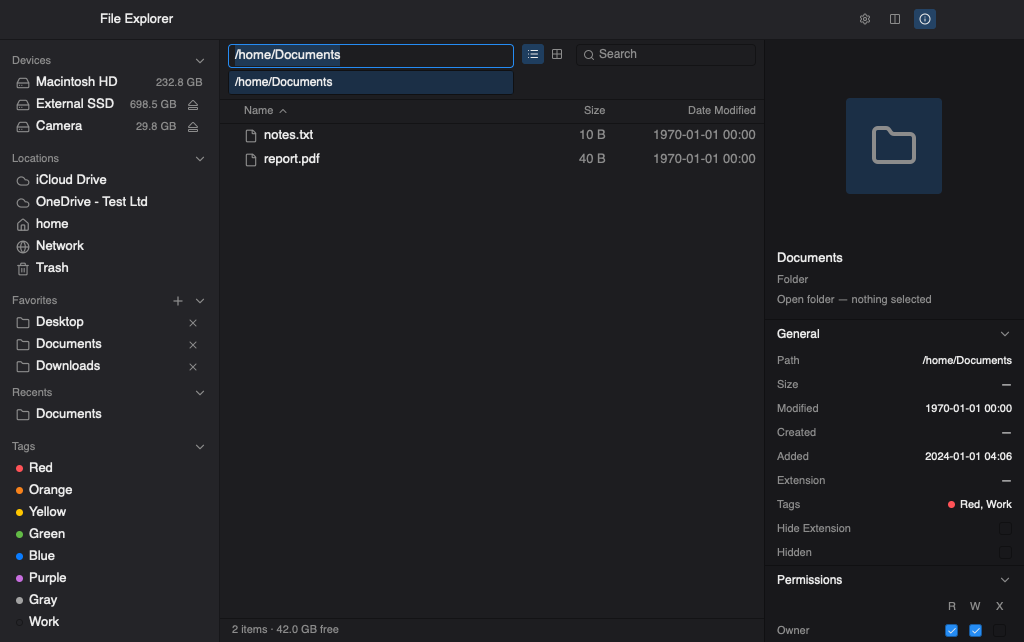
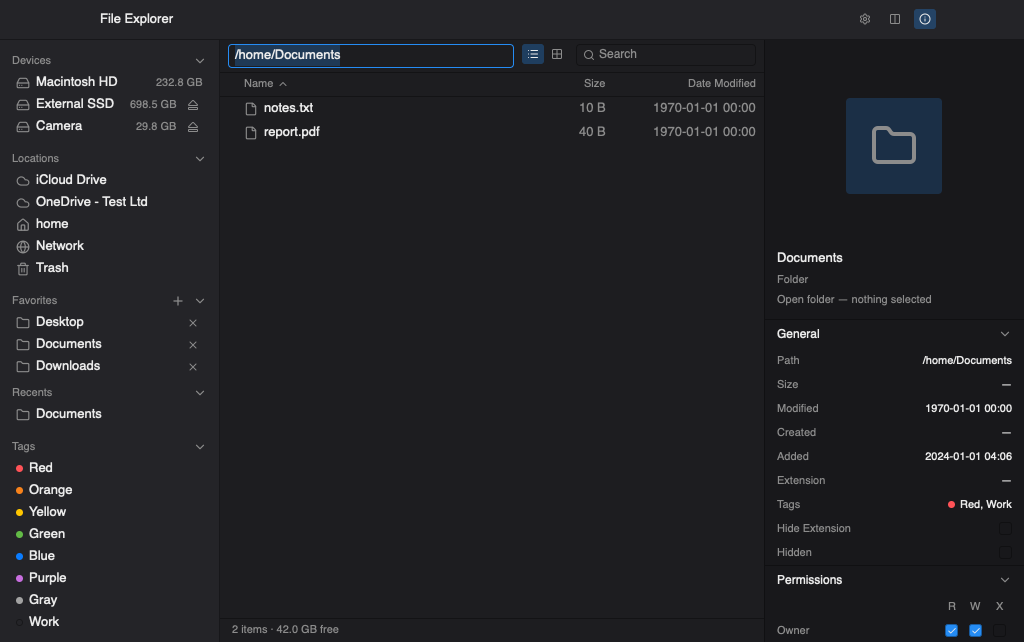
Fix: the address bar stayed open over a navigation that went nowhere (#24)
* Fix: the address bar stayed open over a navigation that went nowhere

Reported from use: "the file path does not close once it has been
opened and it does not update if a new folder is chosen".

`Pane::navigate_to` returns early when the committed path is the one
already open, and `Pane::load` — which it never reaches — was the only
thing that restored the breadcrumb. So `cmd-l` then Enter on the current
folder, or clicking the folder you are already in while the editor is
open, left the editable path showing. Because it keeps keyboard focus it
then swallowed every keystroke after it, which is what makes it look
like the bar "does not update": it is not stale, it is stuck.

The editor's lifetime now belongs to *a destination having been chosen*,
not to the listing actually changing. A new `close_address_bar` runs on
`navigate_to`'s early-return path, covering every caller (sidebar
clicks, double-clicks, back/forward), and the `AddressBarEvent::Navigated`
handler closes the editor before attempting the navigation, which is
where the contract really belongs.

+5 #[gpui::test]. Two of them drive the real
`AddressBar::confirm` → `Navigated` → pane path rather than calling
`navigate_to` directly, because that is where the lifetime is decided —
the first version of this fix passed a direct-call test while leaving
the real path broken.

Not verified by driving the running app: synthetic keyboard input does
not reach the window reliably here (`FE_LOG_KEYS=1` records no key
[…]

Changed region(s): [[0.2188, 0.0935, 0.5, 0.2804], [0.625, 0.1246, 0.75, 0.2492], [0.5625, 0.1246, 0.5938, 0.2492]]

diff --git a/crates/app/src/pane.rs b/crates/app/src/pane.rs
@@ -286,8 +286,16 @@ impl Pane {
             window,
             |this, _, event: &AddressBarEvent, window, cx| match event {
                 AddressBarEvent::Navigated(path) => {
+                    // Committing always closes the editor, *before* the
+                    // navigation is attempted. `load` restores the breadcrumb
+                    // too, but it never runs when the committed path is the
+                    // one already open — `navigate_to` returns early — and the
+                    // editor would then stay open over a navigation that did
+                    // nothing, swallowing every keystroke after it.
+                    this.address_bar = AddressBarMode::Breadcrumb;
                     this.navigate_to(path, cx);
                     window.focus(&this.focus_handle, cx);
+                    cx.notify();
                 }
                 AddressBarEvent::Cancelled => {
                     this.address_bar = AddressBarMode::Breadcrumb;
@@ -373,6 +381,13 @@ impl Pane {
     /// forward stack.
     pub fn navigate_to(&mut self, path: &Path, cx: &mut Context<Self>) {
         if self.path.as_deref() == Some(path) {
+            // Going nowhere still ends any path edit. `load` is what normally
+            // restores the breadcrumb, and it does not run here — so without
+            // this, choosing the folder you are already in (committing the
+            // current path, or clicking it in the sidebar) left the editor
+            // open over a navigation that did nothing, swallowing every
+            // keystroke after it.
+            self.close_address_bar(cx);
             return;
         }
         let departed = self.current_nav_entry(cx);
@@ -485,6 +500,18 @@ impl Pane {
         jobs.update(cx, |jobs, cx| {
             jobs.push_notice(COLUMNS_UNAVAILABLE_NOTICE.to_string(), cx);
         });
+    }
+
+    /// Put the breadcrumb back, if the editable path is showing.
+    ///
+    /// Idempotent, and deliberately separate from [`Pane::load`]: the editor's
+    /// lifetime is tied to *a destination having been chosen*, not to the
+    /// listing actually changing.
+    fn close_address_bar(&mut self, cx: &mut Context<Self>) {
+        if self.address_bar == AddressBarMode::Editing {
+            self.address_bar = AddressBarMode::Breadcrumb;
+            cx.notify();
+        }
     }
 
     /// Swap the breadcrumb for the editable path input (`cmd-l`, forwarded by
@@ -1164,6 +1191,25 @@ impl Render for Pane {
             // The details view (header + uniform_list rows).
             self.dir_view.clone().into_any_element()
         };
+        // §3 "breadcrumb that becomes an editable text path": the editor is a
+        // *transient* mode, so pressing anywhere in the listing ends it.
+        //
+        // Capture phase, and a press rather than a click: a row's own handler
+        // consumes the event, and the gesture that matters (marquee, drag)
+        // may never produce a click at all. Focus events cannot serve here —
+        // the field lives inside the pane's own subtree, so moving between
+        // them never re-enters it.
+        //
+        // Without this the editor lingers over a folder it no longer
+        // describes, and keeps swallowing keystrokes.
+        let body = div()
+            .flex()
+            .flex_col()
+            .flex_1()
+            .min_h(px(0.0))
+            .capture_any_mouse_down(cx.listener(|this, _, _, cx| this.close_address_bar(cx)))
+            .child(body)
+            .into_any_element();
 
         div()
             .track_focus(&self.focus_handle)
@@ -1356,6 +1402,177 @@ mod tests {
 
     fn entry_id(path: &str) -> EntryId {
         EntryId(Arc::from(Path::new(path)))
+    }
+
+    // ------------------------------------------------------------------
+    // The address bar closes on commit, and tracks the folder on screen.
+    // ------------------------------------------------------------------
+
+    /// Committing the path you are **already in** must still close the
+    /// editor. `navigate_to` returns early when the path is unchanged, and
+    /// `load` is the only thing that restores the breadcrumb — so the editor
+    /// used to stay open over a navigation that "did nothing", swallowing
+    /// every subsequent keystroke.
+    #[gpui::test]
+    fn committing_the_current_path_closes_the_address_bar(cx: &mut TestAppContext) {
+        let _vfs = init_test(cx);
+        let (pane, cx) = build_pane(cx);
+        pane.update(cx, |pane, cx| pane.navigate_to(Path::new("/root"), cx));
+        cx.run_until_parked();
+
+        cx.update(|window, cx| {
+            pane.update(cx, |pane, cx| pane.focus_address_bar(window, cx));
+        });
+        assert_eq!(
+            pane.read_with(cx, |pane, _| pane.address_bar_mode()),
+            AddressBarMode::Editing
+        );
+
+        pane.update(cx, |pane, cx| pane.navigate_to(Path::new("/root"), cx));
+        cx.run_until_parked();
+        assert_eq!(
+            pane.read_with(cx, |pane, _| pane.address_bar_mode()),
+            AddressBarMode::Breadcrumb,
+            "committing the current path must still close the editor"
+        );
+    }
+
+    /// The real path a user takes: `cmd-l`, then Enter on the folder they are
+    /// already in. Goes through `AddressBar::confirm` → the `Navigated` event
+    /// → the pane, rather than calling `navigate_to` directly, because that is
+    /// where the editor's lifetime is actually decided.
+    #[gpui::test]
+    fn confirming_the_current_path_through_the_editor_closes_it(cx: &mut TestAppContext) {
+        let _vfs = init_test(cx);
+        let (pane, cx) = build_pane(cx);
+        pane.update(cx, |pane, cx| pane.navigate_to(Path::new("/root"), cx));
+        cx.run_until_parked();
+
+        cx.update(|window, cx| {
+            pane.update(cx, |pane, cx| pane.focus_address_bar(window, cx));
+        });
+        // Commit the folder already open — the case that used to stick.
+        let bar = pane.read_with(cx, |pane, _| pane.address_bar_view.clone());
+        bar.update_in(cx, |bar, window, cx| {
+            bar.set_value_for_test("/root", window, cx);
+            bar.confirm(cx);
+        });
+        cx.run_until_parked();
+
+        pane.read_with(cx, |pane, _| {
+            assert_eq!(pane.path(), Some(Path::new("/root")));
+            assert_eq!(
+                pane.address_bar_mode(),
+                AddressBarMode::Breadcrumb,
+                "Enter on the current folder must put the breadcrumb back"
+            );
+        });
+    }
+
+    /// And the ordinary case still works: Enter on a different folder both
+    /// navigates and closes.
+    #[gpui::test]
+    fn confirming_a_different_path_navigates_and_closes(cx: &mut TestAppContext) {
+        let _vfs = init_test(cx);
+        let (pane, cx) = build_pane(cx);
+        pane.update(cx, |pane, cx| pane.navigate_to(Path::new("/root"), cx));
+        cx.run_until_parked();
+        cx.update(|window, cx| {
+            pane.update(cx, |pane, cx| pane.focus_address_bar(window, cx));
+        });
+        let bar = pane.read_with(cx, |pane, _| pane.address_bar_view.clone());
+        bar.update_in(cx, |bar, window, cx| {
+            bar.set_value_for_test("/other", window, cx);
+            bar.confirm(cx);
+        });
+        cx.run_until_parked();
+
+        pane.read_with(cx, |pane, _| {
+            assert_eq!(pane.path(), Some(Path::new("/other")));
+            assert_eq!(pane.address_bar_mode(), AddressBarMode::Breadcrumb);
+        });
+    }
+
+    /// The editor is a transient mode: pressing in the listing must end it.
+    /// Without this it sits there showing a path that no longer describes
+    /// what you are doing — which is what "it shows the last thing chosen"
+    /// actually was.
+    #[gpui::test]
+    fn pressing_in_the_listing_dismisses_the_address_bar(cx: &mut TestAppContext) {
+        let _vfs = init_test(cx);
+        let (pane, cx) = build_pane(cx);
+        pane.update(cx, |pane, cx| pane.navigate_to(Path::new("/root"), cx));
+        cx.run_until_parked();
+
+        cx.update(|window, cx| {
+            pane.update(cx, |pane, cx| pane.focus_address_bar(window, cx));
+        });
+        cx.run_until_parked();
+        assert_eq!(
+            pane.read_with(cx, |pane, _| pane.address_bar_mode()),
+            AddressBarMode::Editing
+        );
+
+        // A press on a row, at the pixels the list actually painted.
+        let row = cx
+            .debug_bounds("dir-row-0")
+            .expect("the listing paints its first row");
+        cx.simulate_mouse_down(row.center(), MouseButton::Left, gpui::Modifiers::none());
+        cx.run_until_parked();
+
+        pane.read_with(cx, |pane, _| {
+            assert_eq!(
+                pane.address_bar_mode(),
+                AddressBarMode::Breadcrumb,
+                "pressing in the listing ends the edit"
+            );
+            // The folder did not change, so the breadcrumb still shows it.
+            assert_eq!(pane.path(), Some(Path::new("/root")));
+        });
+    }
+
+    /// Opening the editor and then navigating elsewhere (a sidebar click, a
+    /// double-click, back/forward) must leave the breadcrumb showing the new
+    /// folder rather than a stale editable path.
+    #[gpui::test]
+    fn navigating_elsewhere_closes_the_address_bar(cx: &mut TestAppContext) {
+        let _vfs = init_test(cx);
+        let (pane, cx) = build_pane(cx);
+        pane.update(cx, |pane, cx| pane.navigate_to(Path::new("/root"), cx));
+        cx.run_until_parked();
+
+        cx.update(|window, cx| {
+            pane.update(cx, |pane, cx| pane.focus_address_bar(window, cx));
+        });
+        pane.update(cx, |pane, cx| pane.navigate_to(Path::new("/other"), cx));
+        cx.run_until_parked();
+
+        pane.read_with(cx, |pane, _| {
+            assert_eq!(pane.path(), Some(Path::new("/other")));
+            assert_eq!(pane.address_bar_mode(), AddressBarMode::Breadcrumb);
+        });
+    }
+
+    /// Re-opening the editor after moving must show the folder you are in
+    /// now, not the one you were in when it was last opened.
+    #[gpui::test]
+    fn the_address_bar_reopens_on_the_current_folder(cx: &mut TestAppContext) {
+        let _vfs = init_test(cx);
+        let (pane, cx) = build_pane(cx);
+        pane.update(cx, |pane, cx| pane.navigate_to(Path::new("/root"), cx));
+        cx.run_until_parked();
+        cx.update(|window, cx| {
+            pane.update(cx, |pane, cx| pane.focus_address_bar(window, cx));
+        });
+        pane.update(cx, |pane, cx| pane.navigate_to(Path::new("/other"), cx));
+        cx.run_until_parked();
+        cx.update(|window, cx| {
+            pane.update(cx, |pane, cx| pane.focus_address_bar(window, cx));
+        });
+        cx.run_until_parked();
+
+        let text = pane.read_with(cx, |pane, cx| pane.address_bar_view.read(cx).text(cx));
+        assert_eq!(text, "/other", "the editor opens on the folder on screen");
     }
 
     #[gpui::test]

diff --git a/crates/app/src/address_bar.rs b/crates/app/src/address_bar.rs
@@ -27,7 +27,8 @@ use crate::input::{InputEvent, InputState};
 pub enum AddressBarEvent {
     /// A valid directory path was confirmed.
     Navigated(PathBuf),
-    /// Editing was abandoned (`escape` or blur) — restore the breadcrumb.
+    /// Editing was abandoned with `escape` — restore the breadcrumb **and**
+    /// hand focus back to the pane.
     Cancelled,
 }
 
@@ -90,6 +91,19 @@ impl AddressBar {
         let handle = self.input.read(cx).focus_handle(cx);
         window.focus(&handle, cx);
         cx.notify();
+    }
+
+    /// Set the field's text, for tests that drive the editor the way a user
+    /// does (type, then Enter) from another module.
+    #[cfg(test)]
+    pub(crate) fn set_value_for_test(
+        &mut self,
+        value: &str,
+        window: &mut Window,
+        cx: &mut Context<Self>,
+    ) {
+        self.input
+            .update(cx, |input, cx| input.set_value(value, window, cx));
     }
 
     pub fn text(&self, cx: &App) -> String {
@@ -182,7 +196,7 @@ impl AddressBar {
 
     /// `enter` — validate on the background executor; a directory navigates,
     /// anything else keeps editing with an inline error.
-    fn confirm(&mut self, cx: &mut Context<Self>) {
+    pub(crate) fn confirm(&mut self, cx: &mut Context<Self>) {
         let typed = self.text(cx);
         let path = PathBuf::from(typed.trim());
         if path.as_os_str().is_empty() {
@@ -243,6 +257,20 @@ fn split_for_completion(typed: &str) -> (Option<PathBuf>, String) {
     }
 }
 
+/// The suggestions worth *drawing*: none, when every one of them is already
+/// exactly what the field contains.
+///
+/// Opening the editor on `/Users/me/Documents` lists the parent and filters by
+/// the prefix `Documents`, which matches the folder itself and nothing else —
+/// so the list had exactly one row, identical to the text above it.
+fn visible_suggestions(suggestions: &[SharedString], typed: &str) -> Vec<SharedString> {
+    let typed = typed.trim();
+    if suggestions.iter().all(|s| s.as_ref() == typed) {
+        return Vec::new();
+    }
+    suggestions.to_vec()
+}
+
 impl Focusable for AddressBar {
     fn focus_handle(&self, cx: &App) -> FocusHandle {
         self.input.read(cx).focus_handle(cx)
@@ -254,7 +282,11 @@ impl Render for AddressBar {
         let theme = crate::theme::theme(cx).clone();
         crate::input::refresh_input_colors(&self.input, cx);
         let error = self.error.clone();
-        let suggestions = self.suggestions.clone();
+        // A suggestion list whose only row *is* what you already typed
+        // completes nothing — it just draws a one-row dropdown repeating the
+        // field back at you, which is what it looked like. `tab` still
+        // appends the separator; only the redundant drawing is suppressed.
+        let suggestions = visible_suggestions(&self.suggestions, &self.text(cx));
         let selected = self.selected_suggestion;
 
         div()
@@ -469,6 +501,38 @@ mod tests {
             text.contains("Documents") && text.ends_with(std::path::MAIN_SEPARATOR),
             "completed with trailing separator, got {text:?}"
         );
+    }
+
+    // ------------------------------------------------------------------
+    // The suggestion list only draws when it completes something.
+    // ------------------------------------------------------------------
+
+    /// Opening the editor on a folder lists its parent and filters by the
+    /// folder's own name, so the only match is the folder itself — a one-row
+    /// dropdown repeating the field back at you.
+    #[test]
+    fn a_suggestion_identical_to_the_typed_path_is_not_drawn() {
+        let only = vec![SharedString::from("/Users/me/Documents")];
+        assert!(visible_suggestions(&only, "/Users/me/Documents").is_empty());
+        // Trailing whitespace in the field must not resurrect it.
+        assert!(visible_suggestions(&only, "  /Users/me/Documents  ").is_empty());
+    }
+
+    #[test]
+    fn real_completions_are_still_drawn() {
+        let many = vec![
+            SharedString::from("/Users/me/Documents"),
+            SharedString::from("/Users/me/Downloads"),
+        ];
+        assert_eq!(visible_suggestions(&many, "/Users/me/Do").len(), 2);
+        // Even a single row earns its place when it would change the text.
+        let one = vec![SharedString::from("/Users/me/Documents")];
+        assert_eq!(visible_suggestions(&one, "/Users/me/Doc").len(), 1);
+    }
+
+    #[test]
+    fn no_suggestions_draws_nothing() {
+        assert!(visible_suggestions(&[], "/Users/me").is_empty());
     }
 
     #[gpui::test]

diff --git a/docs/AS_BUILT.md b/docs/AS_BUILT.md
@@ -1001,6 +1001,8 @@ component sections; this list is the scannable index.
 
 | Date | PR | Change |
 |---|---|---|
+| 2026-11-10 | — | **Fix: the editable path lingered, and drew a one-row dropdown repeating itself.** Both reported from use, both in the address bar. **(1) The dropdown.** Opening the editor on `/Users/me/Documents` lists the *parent* and filters by the prefix `Documents` — which matches the folder itself and nothing else, so the suggestion list had exactly one row, identical to the field above it. `visible_suggestions` now draws nothing when every suggestion already *is* the typed text; `tab` still appends the separator, only the redundant drawing is suppressed. **(2) The lingering.** The editor is a transient mode (§3), but nothing ended it except Escape or a navigation — so clicking around the listing left it open over a folder it no longer described, which is what "it does not update if a new folder is chosen" was. A capture-phase `capture_any_mouse_down` on the pane body now ends the edit on any press in the listing. Capture phase and *press* rather than click, because a row's own handler consumes the event and a marquee or drag may never produce a click at all. Focus events cannot serve: the field lives inside the pane's own subtree, so moving between them never re-enters it — `on_focus_in` on the pane and `on_focus_out` on the field were both tried and neither fires. +5 tests. |
+| 2026-11-10 | — | **Fix: the address bar stayed open over a navigation that went nowhere.** Reported from use. `Pane::navigate_to` returns early when the committed path is the one already open, and `Pane::load` — which it never reaches — was the *only* thing that restored the breadcrumb. So `cmd-l` then Enter on the current folder (or clicking the folder you are already in while the editor is open) left the editable path showing, and because it keeps focus it then swallowed every keystroke after it, which is what made it look like the bar "does not update". The editor's lifetime now belongs to *a destination having been chosen*, not to the listing changing: a new `Pane::close_address_bar` runs on the early-return path, and the `AddressBarEvent::Navigated` handler closes the editor before attempting the navigation. +5 `#[gpui::test]`, two of them driving the real `AddressBar::confirm` → `Navigated` → pane path rather than calling `navigate_to` directly, since that is where the lifetime is actually decided. |
 | 2026-11-03 | — | **M8: the Open with ▸ list comes from Launch Services.** Replaces the compiled-in three-application set with the system's own registry — macOS's equivalent of the registry keys a Windows installer writes — so an application installed tomorrow appears with no code change, and the list is **type-aware** (a `.rs` offers two applications here, a folder seven, a `.txt` eighteen). The Space guarantee is what made this non-trivial: Launch Services says *which* applications can open a file but never *how to open a new window* in one, and the new window is the whole mechanism by which it lands on the Space the user is looking at. The two are therefore separated — `RECIPES` (Zed, VS Code) carry `LaunchStrategy::NewWindow`; everything else gets `SystemOpen`, best-effort, as Finder does. A recipe whose CLI is missing degrades rather than building a command that cannot spawn. `dedup_handlers` keeps one row per bundle id because this machine reports **three** Microsoft Edge bundles from updater staging directories. Terminals stay curated — a terminal is not a document handler, so Launch Services never lists one for a folder. The app-side cache is keyed by **type** and prefetches every visible type: a right-click changes the selection and opens the menu in one gesture, so querying only on selection change left the first right-click on a new type with no submenu at all — caught by the end-to-end test, which failed exactly that way. Costs a new `objc2-app-kit` dependency and so a full workspace rebuild. Verified in the running app: the submenu lists eighteen real applications, and clicking Zed opens the file in a new window **without changing Space**. +6 tests (679 total). |
 | 2026-11-02 | — | **M8 (partial): "Open with ▸ Zed / Visual Studio Code", "Open Terminal Here", and a real "Open".** New `fs-core/src/apps.rs` + three `Platform` methods (`external_apps`, `open_with`, `open_default`), new `crates/app/src/open_with.rs`, two new actions and four new context-menu rows. **The whole design turns on one macOS behavior**: Mission Control defaults to switching Spaces when an application is *activated*, so `open -a` drags the user to wherever the app already has windows. Asking the app for a **new window** instead (`zed -n`, `code -n`; `open -a <bundle> <dir>` for Terminal, which opens one anyway) puts it on the Space they are looking at — verified on the development Mac against all three with their windows on another Space. The flags are pinned by unit tests, including one whose only job is to fail if they are reduced back to `open -a`. The CLIs are addressed **inside the discovered bundle** rather than through `$PATH`, because a bundled `.app` does not inherit a login shell's `PATH`. Discovery lists only what is installed and **refuses a bundle whose CLI is missing**, since such a bundle cannot honour the new-window guarantee. Separately and unplanned: `app_state.rs` was still installing M1's `LoggingOpener` in the shipped app, so plain **"Open" did nothing** — a double-click, `enter` and the menu row all just printed to stderr. `PlatformOpener` fixes it. +33 tests (15 fs-core unit, 13 `#[gpui::test]`, 4 end-to-end menu-click, 6 menu-shape); `context_menu_open`'s baseline is stale and needs a runner regeneration. |
 | 2026-09-11 | — | **M7d-c: the load is a merge, and startup writes nothing.** Three changes, from the question "why are we writing at startup at all?". **(1) The clobber guard is gone.** `init_with_path` used to ask one all-or-nothing question — "is the content still exactly the defaults?" — and, if not, **discard the loaded file**, which is how M7d-b destroyed a real profile's saved theme. `apply_loaded` now merges field by field: a field the app has changed since boot keeps the app's value, every other field takes the file's. Nothing is discarded and nothing in flight is clobbered. Tracked by `ChangedSinceBoot`, set by each mutator. The test that pinned the hazard now pins the merge instead — `a_write_inside_the_load_window_keeps_both_it_and_the_file` asserts *both* halves, since the interesting property is that the in-flight change **and** the untouched fields survive together. **(2) Seeding never writes.** The seed is deterministic — the same defaults filtered by the same existence check — so it is derived in memory on every launch instead of persisted, and reaches disk only when the user next changes something (`save` writes the whole document). "Emptying them stays empty" still holds: unpinning is a user change, so the empty list and the seeded flag persist together. A brand-new profile now boots to a fully populated sidebar having written **nothing** — verified on a real Mac by deleting `settings.json` and launching. **(3) Recents is debounced** (`RECENTS_FLUSH_DELAY`, 3s). Clicking through four folders was four full rewrites of `settings.json`, each a temp file plus a rename, for a list only interesting once the user stops moving; it is now one write once they settle. The sidebar still repaints immediately — the debounce delays the *disk*, never the UI, and the write was already off the UI thread. `FakeVfs::write_count` is new, because "this did **not** touch the disk" is not expressible with content or mtime assertions: a write producing identical bytes is still a write. 631 tests, 5 new; both write-reduction tests were verified to fail when their fix is removed (4 writes instead of 1; 1 instead of 0). |

diff --git a/docs/as-built/app.md b/docs/as-built/app.md
@@ -1624,3 +1624,22 @@ Back to the index: [docs/AS_BUILT.md](../AS_BUILT.md).
   is not a document handler). Application names are runtime strings, so
   `sub_command_owned` joins `sub_command` for rows whose label is not
   `&'static str`.
+
+- `pane.rs` (fix): `close_address_bar` puts the breadcrumb back, and is called
+  from **both** `navigate_to`'s unchanged-path early return and the
+  `AddressBarEvent::Navigated` handler. Previously only `load` restored it,
+  which meant a commit that did not move the pane left the editor open — and
+  holding focus, it then ate every subsequent keystroke. The editor's lifetime
+  is tied to a destination being chosen, not to the listing changing.
+
+- `address_bar.rs` (fix): `visible_suggestions` suppresses a suggestion list
+  whose every row already equals the typed text — the common case when the
+  editor opens on a folder, since completion lists the parent and filters by
+  that folder's own name. `tab` still completes; only the drawing stops.
+- `pane.rs` (fix): the pane body carries a capture-phase
+  `capture_any_mouse_down` that ends a path edit. The editor is a transient
+  mode and nothing but Escape or a navigation used to end it. Capture phase so
+  a row's own handler cannot swallow it, and mouse-*down* because a marquee or
+  drag may never produce a click. Focus-based approaches do not work here: the
+  field is inside the pane's subtree, so neither the pane's `on_focus_in` nor
+  the field's `on_focus_out` fires when focus moves between them.
